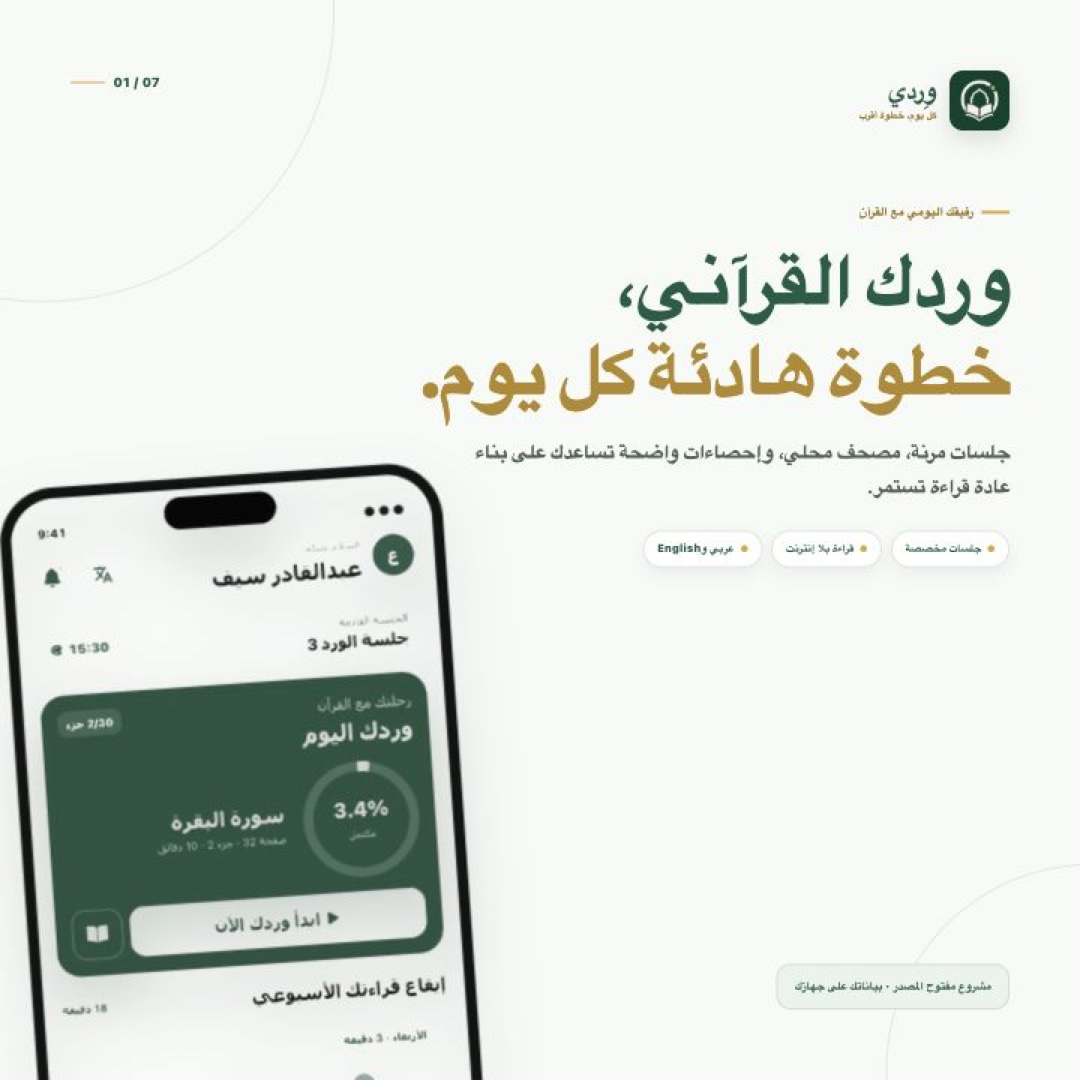
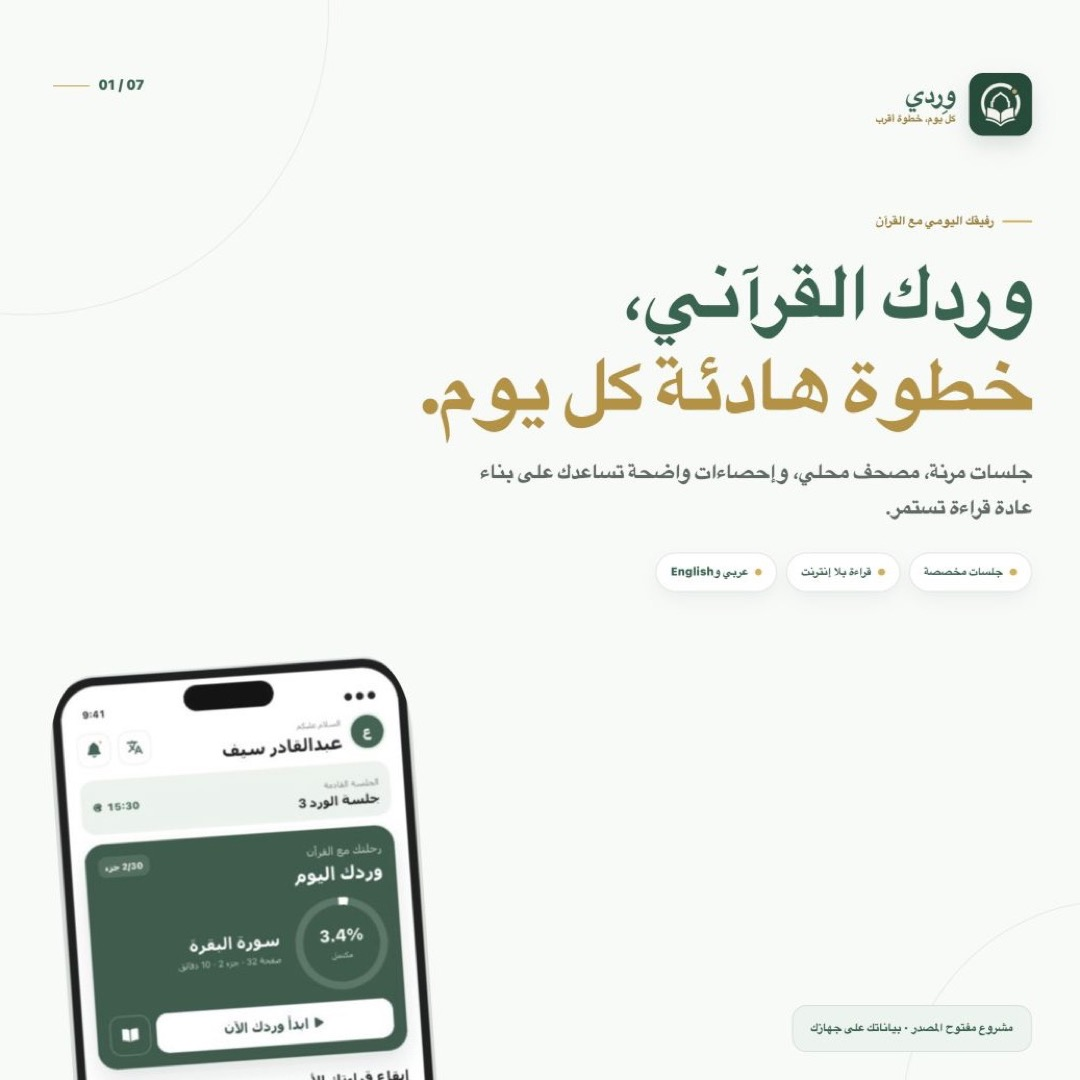
Revert "Enhance carousel phone previews"
This reverts commit 79371f94319c866eeb2a8358d4366b27e1dc4dc9.

diff --git a/docs/carousel/index.html b/docs/carousel/index.html
@@ -34,8 +34,10 @@
     .pill-row{display:flex;flex-wrap:wrap;gap:.8cqw}
     .pill{display:flex;align-items:center;gap:.65cqw;min-height:3.5cqw;padding:0 1.25cqw;border:1px solid #dbe6e0;border-radius:99px;background:#fff;color:#175c43;font-size:1cqw;font-weight:850;box-shadow:0 .65cqw 1.5cqw rgba(28,73,53,.07)}
     .pill:before{content:"";width:.62cqw;height:.62cqw;border-radius:50%;background:#d5aa36}
-    .phone-shot{display:block;width:var(--phone-width,42cqw)!important;height:auto;object-fit:contain;filter:drop-shadow(0 2.5cqw 2.6cqw rgba(18,52,37,.2));image-rendering:auto}
-    .device-legacy,.device-captured,.device-plan{clip-path:none}
+    .phone-shot{display:block;object-fit:contain;filter:drop-shadow(0 2.5cqw 2.6cqw rgba(18,52,37,.18))}
+    .device-legacy{clip-path:inset(6.3% 9.7% .8% 9.7% round 10%)}
+    .device-captured{clip-path:inset(7.9% 9.9% 3.8% 9.9% round 10%)}
+    .device-plan{clip-path:inset(7.9% 9.9% .8% 9.9% round 10%)}
     .note{display:flex;align-items:center;gap:.75cqw;color:#52625a;font-size:1.05cqw;font-weight:800}
     .note:before{content:"";width:.8cqw;height:.8cqw;border-radius:50%;border:.25cqw solid #175c43}
     .line-art{position:absolute;border:1px solid rgba(23,92,67,.11);border-radius:50%;pointer-events:none}
@@ -49,7 +51,7 @@
     .cover h1{margin-top:1.3cqw}
     .cover .lead{width:50cqw;margin-top:2cqw}
     .cover .pill-row{margin-top:2.5cqw}
-    .cover .phone-shot{--phone-width:42cqw;position:absolute;z-index:1;left:2cqw;bottom:-27cqw;transform:rotate(-4deg)}
+    .cover .phone-shot{position:absolute;z-index:1;left:4cqw;bottom:-24cqw;width:40cqw;transform:rotate(-4deg)}
     .cover .open-source{position:absolute;right:6.5cqw;bottom:6.5cqw;padding:1.25cqw 1.6cqw;border:1px solid #cfdfd7;border-radius:1.3cqw;background:#eaf3ef;color:#175c43;font-size:1.05cqw;font-weight:900}
 
     .daily{background:#12523d;color:#fff}
@@ -60,7 +62,7 @@
     .daily .eyebrow{color:#e6c368}
     .daily h2{margin-top:1.3cqw}
     .daily .lead{margin-top:1.6cqw;color:rgba(255,255,255,.72)}
-    .daily .phone-shot{--phone-width:46cqw;position:absolute;left:1cqw;bottom:-12cqw;transform:rotate(-2deg);filter:drop-shadow(0 3cqw 3cqw rgba(0,0,0,.25))}
+    .daily .phone-shot{position:absolute;left:3.5cqw;bottom:-6cqw;width:45cqw;transform:rotate(-2deg);filter:drop-shadow(0 3cqw 3cqw rgba(0,0,0,.25))}
     .daily-grid{display:grid;grid-template-columns:1fr 1fr;gap:1cqw;margin-top:3cqw}
     .daily-grid div{padding:1.35cqw;border:1px solid rgba(255,255,255,.17);border-radius:1.4cqw;background:rgba(255,255,255,.08)}
     .daily-grid b{display:block;font-size:1.25cqw}
@@ -71,7 +73,7 @@
     .plan-copy{position:absolute;z-index:3;top:21cqw;right:6.5cqw;width:39cqw}
     .plan h2{margin-top:1.3cqw}
     .plan .lead{margin-top:1.5cqw}
-    .plan .phone-shot{--phone-width:50cqw;position:absolute;left:0cqw;bottom:-12cqw;transform:rotate(2deg)}
+    .plan .phone-shot{position:absolute;left:1.5cqw;bottom:-3cqw;width:50cqw;transform:rotate(2deg)}
     .plan-stack{display:grid;gap:1cqw;margin-top:2.6cqw}
     .plan-stack .feature-card{display:flex;align-items:center;gap:1.2cqw}
     .step-number{display:grid;width:3.5cqw;height:3.5cqw;flex:0 0 auto;place-items:center;border-radius:1.05cqw;background:#175c43;color:#fff;font-size:1.2cqw;font-weight:900}
@@ -83,7 +85,7 @@
     .reader-copy{position:absolute;z-index:3;top:22cqw;right:6.5cqw;width:41cqw}
     .reader h2{margin-top:1.3cqw}
     .reader .lead{margin-top:1.5cqw;color:rgba(255,255,255,.7)}
-    .reader .phone-shot{--phone-width:48cqw;position:absolute;left:0cqw;bottom:-12cqw;transform:rotate(-2.2deg);filter:drop-shadow(0 3cqw 3cqw rgba(0,0,0,.3))}
+    .reader .phone-shot{position:absolute;left:3cqw;bottom:-5cqw;width:44cqw;transform:rotate(-2.2deg);filter:drop-shadow(0 3cqw 3cqw rgba(0,0,0,.3))}
     .reader-tools{display:grid;grid-template-columns:1fr 1fr;gap:.9cqw;margin-top:2.6cqw}
     .reader-tools div{padding:1.2cqw;border-radius:1.25cqw;background:#f6f8f6;color:#173e2e}
     .reader-tools b{display:block;font-size:1.15cqw}
@@ -93,7 +95,7 @@
     .insights-copy{position:absolute;z-index:3;top:19.8cqw;right:6.5cqw;width:40cqw}
     .insights h2{margin-top:1.3cqw}
     .insights .lead{margin-top:1.5cqw}
-    .insights .phone-shot{--phone-width:49cqw;position:absolute;left:0cqw;bottom:-12cqw;transform:rotate(-1.5deg)}
+    .insights .phone-shot{position:absolute;left:2.5cqw;bottom:-5cqw;width:48cqw;transform:rotate(-1.5deg)}
     .stat-row{display:grid;grid-template-columns:repeat(3,1fr);gap:.8cqw;margin-top:2.6cqw}
     .stat{padding:1.2cqw .7cqw;border-radius:1.25cqw;background:#fff;text-align:center;box-shadow:0 .65cqw 1.6cqw rgba(28,73,53,.07)}
     .stat b{display:block;color:#175c43;font-size:2cqw;font-weight:950;direction:ltr}
@@ -106,7 +108,7 @@
     .together h2{margin-top:1.2cqw}
     .together .lead{margin:1cqw auto 0;width:58cqw}
     .phone-pair{position:absolute;left:50%;bottom:-26cqw;width:83cqw;height:82cqw;transform:translateX(-50%)}
-    .phone-pair img{--phone-width:42cqw;position:absolute}
+    .phone-pair img{position:absolute;width:42cqw}
     .phone-pair img:first-child{right:1cqw;top:2cqw;transform:rotate(4deg)}
     .phone-pair img:last-child{left:1cqw;top:0;transform:rotate(-4deg)}
     .together .tag{position:absolute;z-index:6;bottom:5cqw;right:6.5cqw;padding:1.15cqw 1.4cqw;border-radius:1.3cqw;background:#175c43;color:#fff;font-size:1cqw;font-weight:900;box-shadow:0 .8cqw 1.8cqw rgba(23,92,67,.22)}
@@ -115,8 +117,8 @@
     .privacy-copy{position:absolute;z-index:5;top:20.5cqw;right:6.5cqw;width:41cqw}
     .privacy h2{margin-top:1.3cqw}
     .privacy .lead{margin-top:1.5cqw}
-    .privacy .phone-light{--phone-width:40cqw;position:absolute;left:13cqw;bottom:-8cqw;transform:rotate(5deg)}
-    .privacy .phone-dark{--phone-width:39cqw;position:absolute;left:-4cqw;bottom:-2cqw;transform:rotate(-6deg);filter:drop-shadow(0 3cqw 3cqw rgba(0,0,0,.24))}
+    .privacy .phone-light{position:absolute;left:15cqw;bottom:-18cqw;width:39cqw;transform:rotate(5deg)}
+    .privacy .phone-dark{position:absolute;left:-5cqw;bottom:-12cqw;width:38cqw;transform:rotate(-6deg);filter:drop-shadow(0 3cqw 3cqw rgba(0,0,0,.24))}
     .privacy-list{display:grid;gap:.8cqw;margin-top:2.4cqw}
     .privacy-list div{display:flex;align-items:center;gap:.8cqw;color:#294238;font-size:1.05cqw;font-weight:820}
     .privacy-list div:before{content:"✓";display:grid;width:2cqw;height:2cqw;place-items:center;border-radius:50%;background:#e4f0ea;color:#175c43;font-size:1cqw;font-weight:950}
@@ -142,45 +144,45 @@
         <div class="brand"><img src="../../assets/wird-app-icon.png" alt=""><div class="brand-copy"><b>وِردي</b><span>كل يوم، خطوة أقرب</span></div></div><div class="counter">01 / 07</div>
         <div class="line-art one"></div><div class="line-art two"></div>
         <div class="cover-copy"><div class="eyebrow">رفيقك اليومي مع القرآن</div><h1><span class="green">وردك القرآني،</span><br><span class="gold">خطوة هادئة كل يوم.</span></h1><p class="lead">جلسات مرنة، مصحف محلي، وإحصاءات واضحة تساعدك على بناء عادة قراءة تستمر.</p><div class="pill-row"><span class="pill">جلسات مخصصة</span><span class="pill">قراءة بلا إنترنت</span><span class="pill">عربي وEnglish</span></div></div>
-        <img class="phone-shot device-legacy" src="../screenshots/iphone/home-dashboard.png" alt="شاشة ورد اليوم">
+        <img class="phone-shot device-legacy" src="../screenshots/home-dashboard.jpg" alt="شاشة ورد اليوم">
         <div class="open-source">مشروع مفتوح المصدر · بياناتك على جهازك</div>
       </section>
 
       <section class="slide daily" data-title="ورد اليوم">
         <div class="brand"><img src="../../assets/wird-app-icon.png" alt=""><div class="brand-copy"><b>وِردي</b><span>كل يوم، خطوة أقرب</span></div></div><div class="counter">02 / 07</div>
         <div class="daily-copy"><div class="eyebrow">واجهة تعرف ما تحتاجه الآن</div><h2>ابدأ يومك من<br><span class="gold">جلسة واضحة.</span></h2><p class="lead">الموعد القادم، موضع القراءة، تقدّم الختمة، وهدف اليوم في نظرة واحدة.</p><div class="daily-grid"><div><b>جلسة قادمة</b><span>موعد ومدة محددان</span></div><div><b>تقدّم دائري</b><span>النسبة والجزء الحالي</span></div><div><b>نشاط أسبوعي</b><span>دقائق كل يوم</span></div><div><b>متابعة فورية</b><span>من آخر صفحة</span></div></div></div>
-        <img class="phone-shot device-legacy" src="../screenshots/iphone/home-dashboard.png" alt="لوحة ورد اليوم"><div class="gold-line"></div>
+        <img class="phone-shot device-legacy" src="../screenshots/home-dashboard.jpg" alt="لوحة ورد اليوم"><div class="gold-line"></div>
       </section>
 
       <section class="slide plan" data-title="خطة مرنة">
         <div class="brand"><img src="../../assets/wird-app-icon.png" alt=""><div class="brand-copy"><b>وِردي</b><span>كل يوم، خطوة أقرب</span></div></div><div class="counter">03 / 07</div>
         <div class="plan-copy"><div class="eyebrow">خطتك تتكيّف مع يومك</div><h2><span class="green">خطتك،</span><br><span class="gold">على وقتك.</span></h2><p class="lead">أنشئ من جلسة إلى خمس جلسات يومية، وحدد وقت كل جلسة ومدتها ونقطة البداية.</p><div class="plan-stack"><div class="feature-card"><span class="step-number">1</span><div><strong>اختر الموعد</strong><span>صباحًا، مساءً، أو بينهما</span></div></div><div class="feature-card"><span class="step-number">2</span><div><strong>حدّد المدة</strong><span>جلسة قصيرة تناسب جدولك</span></div></div><div class="feature-card"><span class="step-number">3</span><div><strong>تابع من موضعك</strong><span>من الصفحة التي توقفت عندها</span></div></div></div></div>
-        <img class="phone-shot device-plan" src="../screenshots/iphone/plan.png" alt="إدارة خطة الورد">
+        <img class="phone-shot device-plan" src="../screenshots/plan.jpg" alt="إدارة خطة الورد">
       </section>
 
       <section class="slide reader" data-title="المصحف المحلي">
         <div class="brand"><img src="../../assets/wird-app-icon.png" alt=""><div class="brand-copy"><b>وِردي</b><span>كل يوم، خطوة أقرب</span></div></div><div class="counter">04 / 07</div>
         <div class="reader-copy"><div class="eyebrow">قراءة مركّزة بلا تشتيت</div><h2>المصحف معك،<br><span class="gold">حتى دون إنترنت.</span></h2><p class="lead">انتقل بين الصفحات، احفظ العلامات، وافتح التفسير من نفس مصادر نسخة سطح المكتب.</p><div class="reader-tools"><div><b>6,236 آية</b><span>نص قرآني محلي</span></div><div><b>5 تفاسير</b><span>مصادر عربية مضمّنة</span></div><div><b>علامات</b><span>احفظ موضعك بسهولة</span></div><div><b>انتقال سريع</b><span>إلى الصفحة المطلوبة</span></div></div></div>
-        <img class="phone-shot device-captured" src="../screenshots/iphone/reader.png" alt="قارئ القرآن الكريم">
+        <img class="phone-shot device-captured" src="../screenshots/reader.jpg" alt="قارئ القرآن الكريم">
       </section>
 
       <section class="slide insights" data-title="إحصاءات القراءة">
         <div class="brand"><img src="../../assets/wird-app-icon.png" alt=""><div class="brand-copy"><b>وِردي</b><span>كل يوم، خطوة أقرب</span></div></div><div class="counter">05 / 07</div>
         <div class="insights-copy"><div class="eyebrow">تقدّم مفهوم ومحفّز</div><h2><span class="green">تقدّم تراه.</span><br><span class="gold">عادة تبنيها.</span></h2><p class="lead">تابع وقت القراءة والصفحات والأيام النشطة، واستكشف دقائق كل يوم من الرسم التفاعلي.</p><div class="stat-row"><div class="stat"><b>42</b><span>صفحة</span></div><div class="stat"><b>18</b><span>دقيقة</span></div><div class="stat"><b>7</b><span>أيام قراءة</span></div></div></div>
-        <img class="phone-shot device-captured" src="../screenshots/iphone/statistics.png" alt="إحصاءات القراءة">
+        <img class="phone-shot device-captured" src="../screenshots/statistics.jpg" alt="إحصاءات القراءة">
       </section>
 
       <section class="slide together" data-title="الختمات الجماعية">
         <div class="brand"><img src="../../assets/wird-app-icon.png" alt=""><div class="brand-copy"><b>وِردي</b><span>كل يوم، خطوة أقرب</span></div></div><div class="counter">06 / 07</div>
         <div class="together-head"><div class="eyebrow">مع من تحب</div><h2><span class="green">اختموا القرآن</span> <span class="gold">معًا.</span></h2><p class="lead">أنشئ ختمة، شارك رمز الدعوة، وتابع إنجاز الأجزاء الثلاثين مع أفراد العائلة والأصدقاء.</p></div>
-        <div class="phone-pair"><img class="phone-shot device-legacy" src="../screenshots/iphone/khatamat-groups.png" alt="مجموعات الختمات"><img class="phone-shot device-legacy" src="../screenshots/iphone/khatma-detail.png" alt="تقدم الختمة الجماعية"></div>
+        <div class="phone-pair"><img class="phone-shot device-legacy" src="../screenshots/khatamat-groups.jpg" alt="مجموعات الختمات"><img class="phone-shot device-legacy" src="../screenshots/khatma-detail.jpg" alt="تقدم الختمة الجماعية"></div>
         <div class="tag">دعوات · أعضاء · 30 جزءًا · تقدّم جماعي</div>
       </section>
 
       <section class="slide privacy" data-title="الخصوصية والمظهر">
         <div class="brand"><img src="../../assets/wird-app-icon.png" alt=""><div class="brand-copy"><b>وِردي</b><span>كل يوم، خطوة أقرب</span></div></div><div class="counter">07 / 07</div>
         <div class="privacy-copy"><div class="eyebrow">مصمم لراحتك وخصوصيتك</div><h2><span class="green">تجربة تحترمك.</span><br><span class="gold">وبيانات تبقى لك.</span></h2><p class="lead">واجهة عربية وإنجليزية، مظهر يتبع نظام جهازك، وتخزين محلي دون حساب سحابي إلزامي.</p><div class="privacy-list"><div>فاتح، داكن، أو تلقائي</div><div>SQLite وSecureStore على الجهاز</div><div>نسخ احتياطي واستعادة باختيارك</div><div>لا إعلانات ولا تحليلات ولا تتبّع</div></div></div>
-        <img class="phone-shot device-captured phone-light" src="../screenshots/iphone/settings.png" alt="إعدادات المظهر"><img class="phone-shot device-captured phone-dark" src="../screenshots/iphone/home-dark.png" alt="المظهر الداكن">
+        <img class="phone-shot device-captured phone-light" src="../screenshots/settings.jpg" alt="إعدادات المظهر"><img class="phone-shot device-captured phone-dark" src="../screenshots/home-dark.jpg" alt="المظهر الداكن">
         <div class="oss">مبني على مشروع Wird المفتوح المصدر · MIT</div>
       </section>
     </main>

diff --git a/README.md b/README.md
@@ -49,9 +49,9 @@ explicitly exports a backup.
     <td align="center"><strong>Recurring Plan</strong></td>
   </tr>
   <tr>
-    <td align="center" width="33%"><img src="docs/screenshots/iphone/home-dashboard.png" width="250" alt="Wirdy Arabic home dashboard with daily reading progress" /></td>
-    <td align="center" width="33%"><img src="docs/screenshots/iphone/reader.png" width="250" alt="Wirdy local Quran reader with bookmarks and Tafsir tools" /></td>
-    <td align="center" width="33%"><img src="docs/screenshots/iphone/plan.png" width="250" alt="Wirdy recurring reading plan management" /></td>
+    <td><img src="docs/screenshots/home-dashboard.jpg" alt="Wirdy Arabic home dashboard with daily reading progress" /></td>
+    <td><img src="docs/screenshots/reader.jpg" alt="Wirdy local Quran reader with bookmarks and Tafsir tools" /></td>
+    <td><img src="docs/screenshots/plan.jpg" alt="Wirdy recurring reading plan management" /></td>
   </tr>
   <tr>
     <td align="center">Next session, daily goal, Khatma progress, and weekly rhythm</td>
@@ -69,9 +69,9 @@ explicitly exports a backup.
     <td align="center"><strong>Group Progress</strong></td>
   </tr>
   <tr>
-    <td align="center" width="33%"><img src="docs/screenshots/iphone/statistics.png" width="250" alt="Wirdy animated reading statistics and weekly activity" /></td>
-    <td align="center" width="33%"><img src="docs/screenshots/iphone/khatamat-groups.png" width="250" alt="Wirdy collaborative Khatamat list on iPhone" /></td>
-    <td align="center" width="33%"><img src="docs/screenshots/iphone/khatma-detail.png" width="250" alt="Wirdy Khatma group detail and progress on iPhone" /></td>
+    <td><img src="docs/screenshots/statistics.jpg" alt="Wirdy animated reading statistics and weekly activity" /></td>
+    <td><img src="docs/screenshots/khatamat-groups.jpg" alt="Wirdy collaborative Khatamat list on iPhone" /></td>
+    <td><img src="docs/screenshots/khatma-detail.jpg" alt="Wirdy Khatma group detail and progress on iPhone" /></td>
   </tr>
   <tr>
     <td align="center">Reading time, pages, active days, and interactive charts</td>
@@ -88,8 +88,8 @@ explicitly exports a backup.
     <td align="center"><strong>Dark Appearance</strong></td>
   </tr>
   <tr>
-    <td align="center" width="50%"><img src="docs/screenshots/iphone/settings.png" width="250" alt="Wirdy reading and appearance settings" /></td>
-    <td align="center" width="50%"><img src="docs/screenshots/iphone/home-dark.png" width="250" alt="Wirdy home dashboard in dark appearance" /></td>
+    <td><img src="docs/screenshots/settings.jpg" alt="Wirdy reading and appearance settings" /></td>
+    <td><img src="docs/screenshots/home-dark.jpg" alt="Wirdy home dashboard in dark appearance" /></td>
   </tr>
   <tr>
     <td align="center">System, Light, and Dark modes with reader controls</td>
